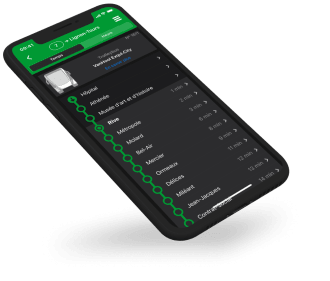
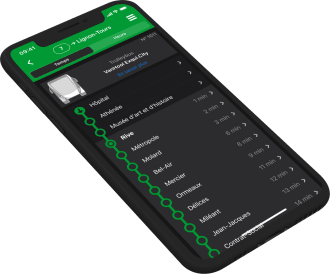
Remove the phone shadow

diff --git a/index.html b/index.html
@@ -87,16 +87,19 @@
                 <img
                     class="project-card-layer project-card-tpgw-phone-layer"
                     sizes="
-                    (max-width: 575px) 320px,
+                    (max-width: 575px) 330px,
                     (max-width: 767px) 50vw,
-                    (max-width: 991px) 350px,
-                    (max-width: 1199px) 451px,
-                    (max-width: 1399px) 516px,
+                    (max-width: 991px) 400px,
+                    (max-width: 1199px) 500px,
+                    (max-width: 1399px) 560px,
                     560px"
                     srcset="
-                    resources/images/card-tpgw/330.png 330w,
-                    resources/images/card-tpgw/684.png 684w,
-                    resources/images/card-tpgw/979.png 979w"
+                    resources/images/card-tpgw/resources/images/card-tpgw/330.png 330w,
+                    resources/images/card-tpgw/691.png 691w,
+                    resources/images/card-tpgw/982.png 982w,
+                    resources/images/card-tpgw/1215.png 1215w,
+                    resources/images/card-tpgw/1437.png 1437w,
+                    resources/images/card-tpgw/1630.png 1630w"
                     src="resources/images/card-tpgw/979.png"
                     alt=""
                 >

diff --git a/resources/style/style.css b/resources/style/style.css
@@ -311,7 +311,7 @@ h1 {
 
 .project-card-tpgw-phone-layer {
     height: auto;
-    transform: translateX(7%) translateY(-3%) translateZ(80px) scale(1.15);
+    transform: translateY(-10%) translateZ(80px);
 }
 
 @media screen and (min-width: 576px) {
